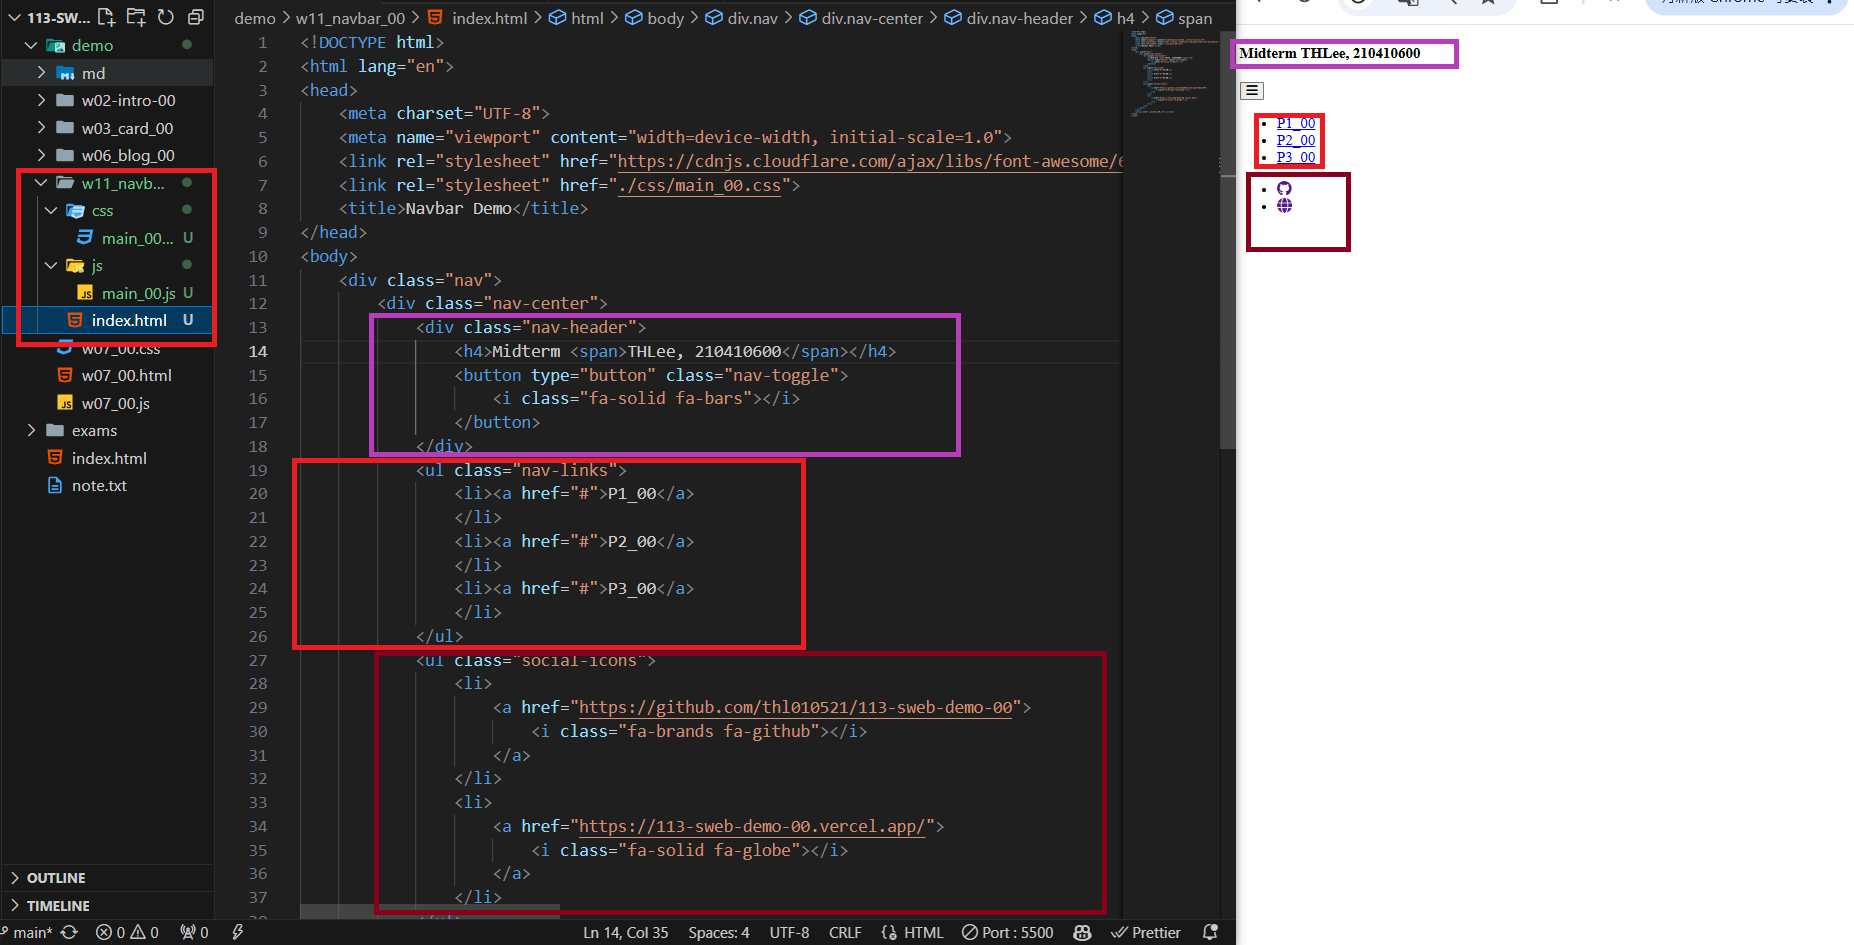
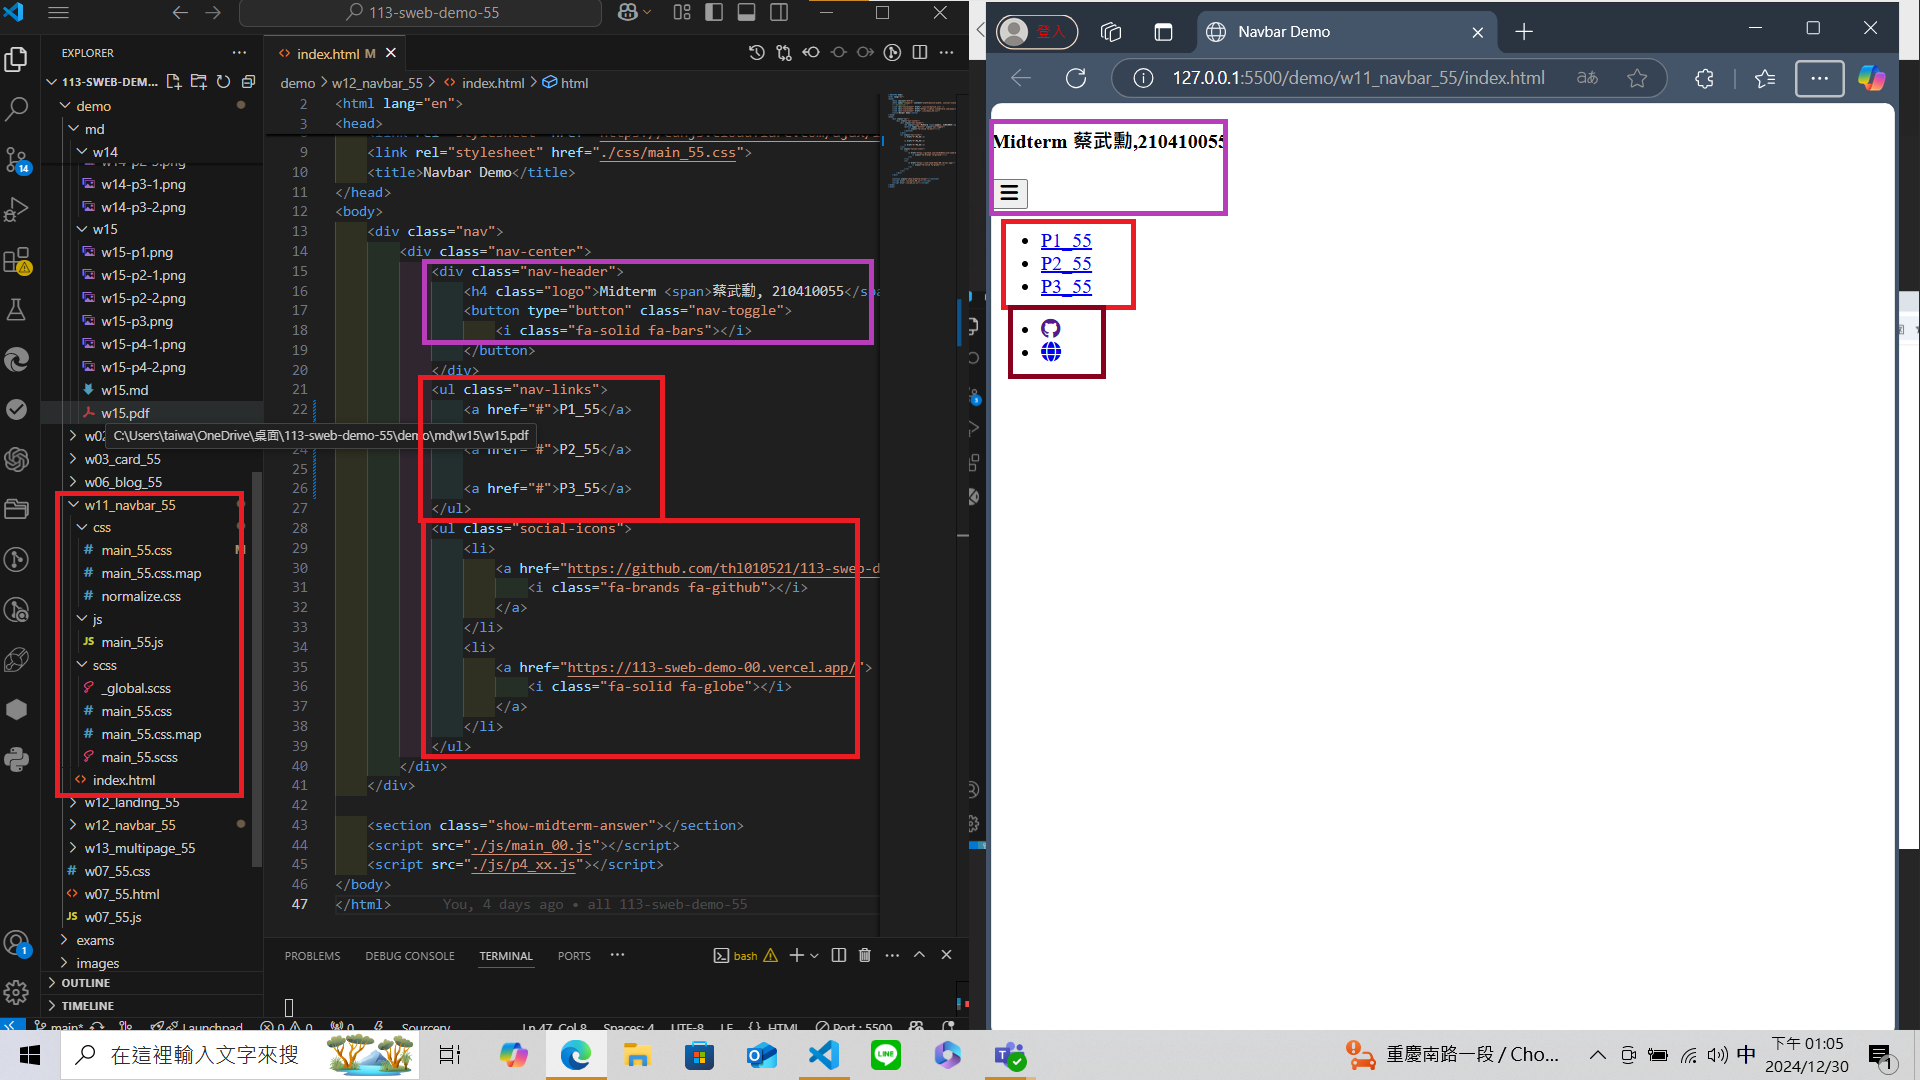
W11-P1: Create html code for navbar

diff --git a/scss/tictactoe_00.css b/scss/tictactoe_00.css
@@ -142,22 +142,18 @@ ul {
   text-transform: capitalize;
   display: inline-block;
 }
-
 .btn:hover {
   background: var(--primary-700);
   box-shadow: var(--shadow-3);
 }
-
 .btn-hipster {
   color: var(--primary-500);
   background: var(--primary-200);
 }
-
 .btn-hipster:hover {
   color: var(--primary-200);
   background: var(--primary-700);
 }
-
 .btn-block {
   width: 100%;
 }
@@ -169,12 +165,10 @@ ul {
   border-color: transparent;
   border-radius: var(--borderRadius);
 }
-
 .alert-danger {
   color: var(--red-dark);
   background: var(--red-light);
 }
-
 .alert-success {
   color: var(--green-dark);
   background: var(--green-light);
@@ -205,7 +199,6 @@ ul {
   padding: 2rem 2.5rem;
   margin: 3rem auto;
 }
-
 .form-label {
   display: block;
   font-size: var(--smallText);
@@ -213,7 +206,6 @@ ul {
   text-transform: capitalize;
   letter-spacing: var(--letterSpacing);
 }
-
 .form-input, .form-textarea {
   width: 100%;
   padding: 0.375rem 0.75rem;
@@ -221,15 +213,12 @@ ul {
   background: var(--backgroundColor);
   border: 1px solid var(--grey-200);
 }
-
 .form-row {
   margin-bottom: 1rem;
 }
-
 .form-textarea {
   height: 7rem;
 }
-
 .form-alert {
   color: var(--red-dark);
   letter-spacing: var(--letterSpacing);
@@ -246,7 +235,6 @@ ul {
 .section-title {
   text-align: center;
 }
-
 .section-title-underline {
   background: var(--primary-500);
   width: 7rem;
@@ -264,13 +252,11 @@ ul {
   border-radius: 10px;
   padding-bottom: 40px;
 }
-
 .tictactoe h2 {
   color: white;
   text-align: center;
   padding: 1rem;
 }
-
 .tictactoe .board {
   width: 100%;
   display: flex;
@@ -278,7 +264,6 @@ ul {
   align-items: center;
   flex-wrap: wrap;
 }
-
 .tictactoe .board li {
   margin: 10px;
   width: 90px;
@@ -291,26 +276,21 @@ ul {
   text-align: center;
   border-radius: 5px;
 }
-
 .tictactoe .board li:hover {
   cursor: pointer;
   background-color: #000;
 }
-
 .tictactoe .board .o {
   color: green;
 }
-
 .tictactoe .board .x {
   color: red;
 }
-
 .tictactoe footer {
   display: block;
   text-align: center;
   padding: 15px;
 }
-
 .tictactoe .reset {
   background-color: #444;
   color: #fff;
@@ -319,12 +299,9 @@ ul {
   font-size: 25px;
   border-radius: 5px;
 }
-
 .tictactoe .reset:hover {
   cursor: pointer;
   background-color: #000;
 }
-
-
 
 /*# sourceMappingURL=tictactoe_00.css.map */

diff --git a/scss/div_00.css b/scss/div_00.css
@@ -16,34 +16,28 @@
   font-weight: 600;
   font-size: 0.8rem;
 }
-
 .div_container_00 .logo {
   background-color: #eababa;
   grid-area: logo;
 }
-
 .div_container_00 header {
   background-color: bisque;
   grid-area: header;
 }
-
 .div_container_00 article {
   background-color: #d18fdf;
   grid-area: article;
 }
-
 .div_container_00 article .nav {
   width: 80%;
   height: 90%;
   margin: 0.5px auto;
   background-color: #9cbaf3;
 }
-
 .div_container_00 aside {
   background-color: rgb(232, 235, 72);
   grid-area: aside;
 }
-
 .div_container_00 section {
   width: 90%;
   height: 90%;
@@ -52,7 +46,6 @@
   margin: 0.6rem auto;
   background-color: #a4caaf;
 }
-
 .div_container_00 .video-responsive {
   width: 90%;
   margin: 10px auto;
@@ -61,7 +54,6 @@
   position: relative;
   height: 0;
 }
-
 .div_container_00 .video-responsive iframe {
   left: 0;
   top: 0;
@@ -69,24 +61,20 @@
   width: 100%;
   position: absolute;
 }
-
 .div_container_00 .picContainer {
   display: flex;
   justify-content: space-around;
   align-items: center;
   margin: 0 auto;
 }
-
 .div_container_00 .picContainer .small_pic {
   width: 15%;
   margin: 10px;
   cursor: pointer;
 }
-
 .div_container_00 .picContainer .small_pic img {
   width: 100%;
 }
-
 .div_container_00 footer {
   background-color: rgb(187, 127, 127);
   grid-area: footer;
@@ -99,6 +87,5 @@
     grid-template-areas: "logo" "header" "article" "aside" "footer";
   }
 }
-
 
 /*# sourceMappingURL=div_00.css.map */

diff --git a/scss/projects_xx.css b/scss/projects_xx.css
@@ -38,31 +38,26 @@
   width: 90%;
   margin: 0 auto;
 }
-
 .projects .section-title {
   text-align: center;
   margin: 2rem;
 }
-
 .projects .section-title h2 {
   text-transform: capitalize;
   font-size: 2rem;
   margin-bottom: 1rem;
 }
-
 .projects-text {
   width: 80vw;
   max-width: 30rem;
   margin: 0 auto;
 }
-
 .projects-center .project {
   position: relative;
   background-color: var(--clr-primary-5);
   border-radius: var(--radius);
   margin-bottom: 2rem;
 }
-
 .projects-center .project::after {
   content: "";
   position: absolute;
@@ -73,12 +68,10 @@
   border: 0.25rem solid white;
   opacity: 0;
 }
-
 .projects-center .project:hover::after {
   opacity: 1;
   transform: scale(0.8);
 }
-
 .projects-center .project-info {
   position: absolute;
   color: #fff;
@@ -89,7 +82,6 @@
   opacity: 0;
   transition: var(--transition);
 }
-
 .projects-center .project-img {
   width: 100%;
   height: 15rem;
@@ -97,15 +89,11 @@
   border-radius: var(--radius);
   transition: var(--transition);
 }
-
 .projects-center .project:hover .project-info {
   opacity: 1;
 }
-
 .projects-center .project:hover .project-img {
   opacity: 0.2;
 }
-
-
 
 /*# sourceMappingURL=projects_xx.css.map */

diff --git a/demo/w12_navbar_55/index.html b/demo/w12_navbar_55/index.html
@@ -19,12 +19,11 @@
                 </button>
             </div>
             <ul class="nav-links">
-                <li onclick="showMidtermPage('p1_xx')"><a href="#">P1_55</a>
-                </li>
-                <li onclick="showMidtermPage('p2_xx')"><a href="#">P2_55</a>
-                </li>
-                <li onclick="showMidtermPage('p3_xx')"><a href="#">P3_55</a>
-                </li>
+                <a href="#">P1_55</a>
+                
+                <a href="#">P2_55</a>
+                
+                <a href="#">P3_55</a>
             </ul>
             <ul class="social-icons">
                 <li>
